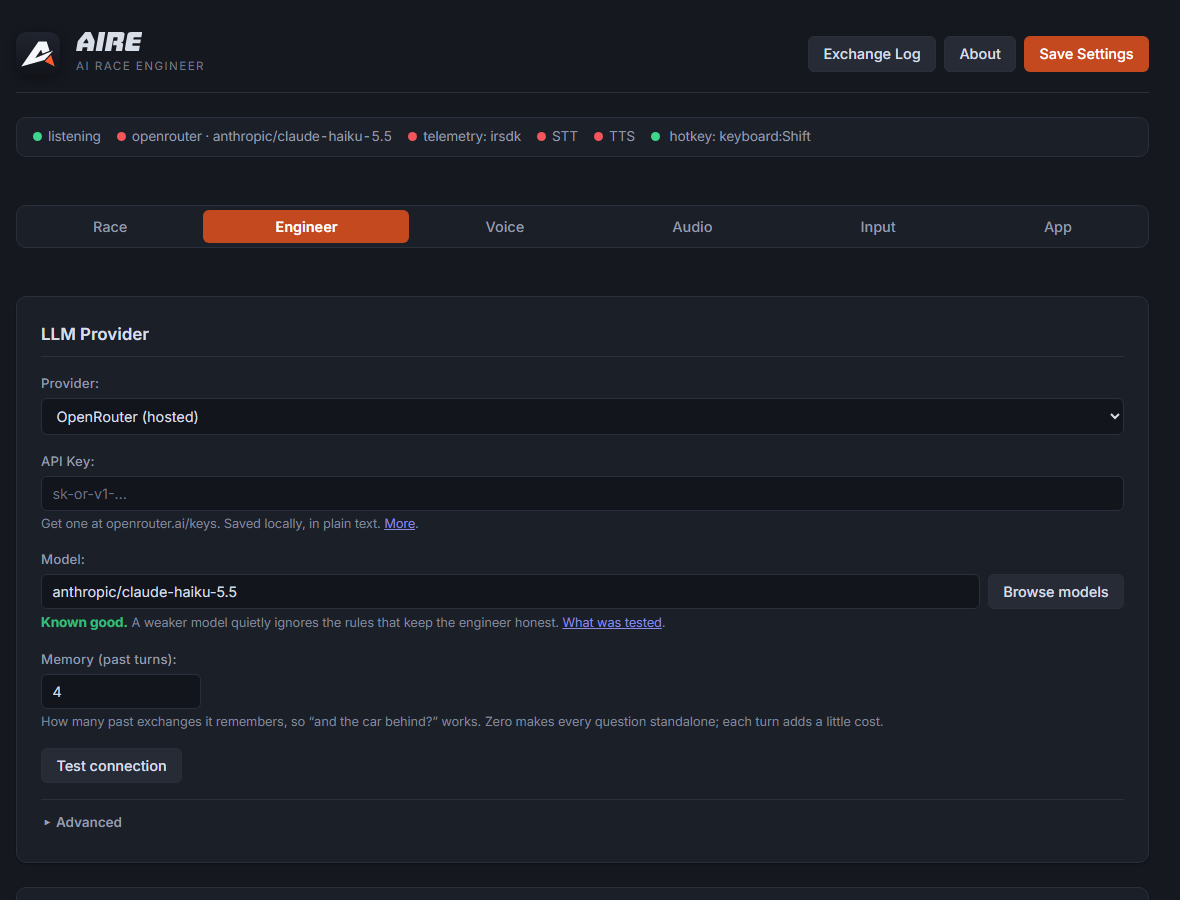
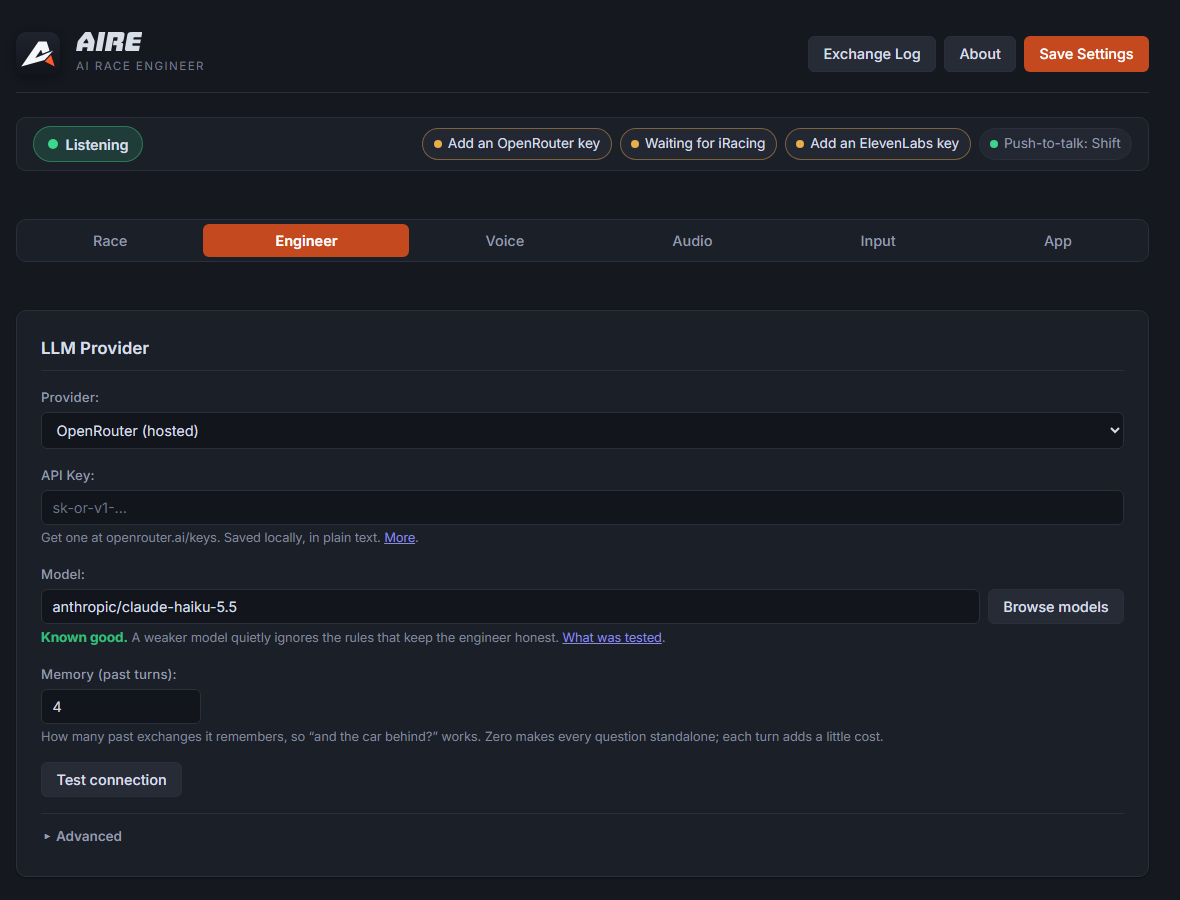
Record the new status bar, and recapture the screenshots

diff --git a/CHANGELOG.md b/CHANGELOG.md
@@ -8,6 +8,13 @@ Entries are grouped under **Added**, **Changed**, **Fixed**, or **Removed**.
 
 ### Changed
 
+- The status bar says what is going on in plain words. What the engineer is
+  doing — listening, recording, thinking, speaking — is a badge on the left;
+  each check on the right is a button that opens the tab that fixes it.
+  Something not set up yet is amber ("Add an ElevenLabs key") and only
+  something broken is red, where a first run used to show five red dots.
+  Speech recognition and voice are one item, since they share one key, and
+  a pill appears while pit commands are on.
 - The settings panel is quieter. Each hint is a line saying what the control
   does, with a **More** link to the README for why; settings most drivers
   never touch (endpoint, temperature, token budget, voice sliders, radio
